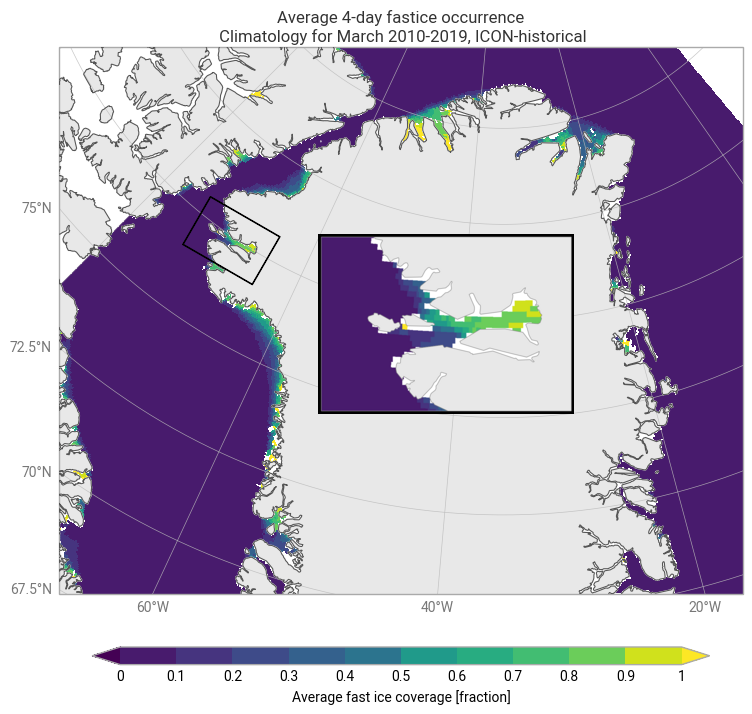
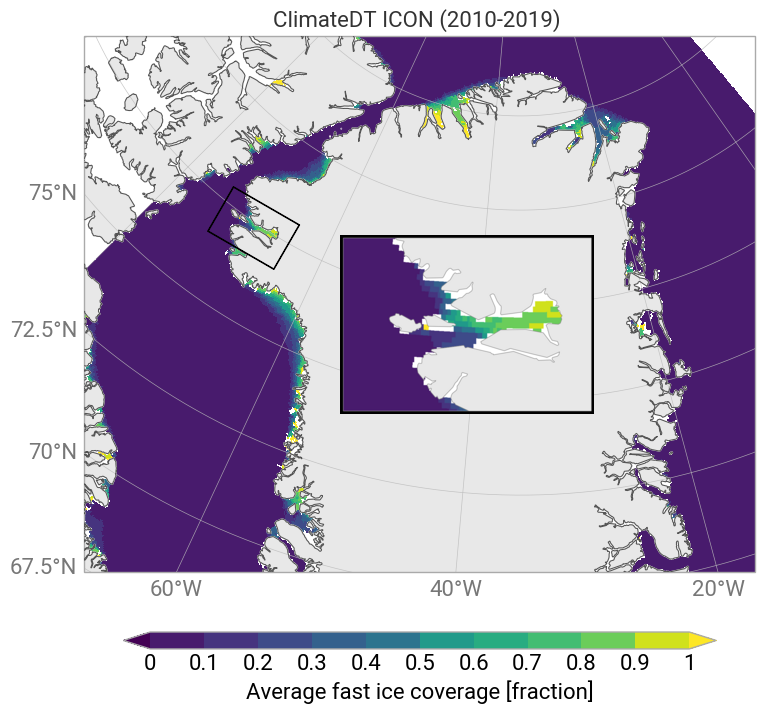
LFI plots: Bigger font, less title

Changed region(s): [[0.0, 0.0, 1.0, 0.986], [0.2753, 0.6162, 0.3059, 0.6779], [0.9176, 0.1541, 0.9481, 0.1849]]

diff --git a/usecases/landfastice/landfastice_climatology.py b/usecases/landfastice/landfastice_climatology.py
@@ -58,6 +58,7 @@ import earthkit.regrid
 import datetime
 import pandas as pd
 import numpy as np
+import matplotlib.pyplot as plt
 
 from utils.download_icedata_c import request_icedata_subarea
 from utils.fastice import avg_fasticecoverage
@@ -100,11 +101,14 @@ fasticeduration=4 # days; For how many days ice needs to be stationary to be con
 
 # Region to be processed (Greenland or Arctic or Inglefield)
 mapregion='Greenland'
-#mapregion='Arctic'
-#mapregion='Inglefield' # This will download/use data for Greenland
+# mapregion='Arctic'
+# mapregion='Inglefield' # This will download/use data for Greenland
 
 # Directory to store data files (temporarily):
 datastoragedir='/media/volume/data_storage_andrea/'
+
+# Font size for the plot
+plotfontsize=16
 
 ################
 ## End of user settings
@@ -212,7 +216,10 @@ for year in range(clima_fromyear,clima_toyear+1):
     # dataICExr=dataICE1month.to_xarray() # Needed for date in plot title
 
     # Calculate average fastice coverage for this month
+    
+    #test arctic avg_fasticecover_grb = avg_fasticecoverage(dataICE1month,speedthreshold=8e-2,fasticeduration=4)
     avg_fasticecover_grb = avg_fasticecoverage(dataICE1month,speedthreshold=5e-4,fasticeduration=4)
+    
     fastice_forechyear.append(avg_fasticecover_grb)
 
 ###
@@ -287,14 +294,20 @@ if plotavg:
     # chart.coastlines(resolution='medium',zorder=3)
     # chart.land(resolution='medium',zorder=2)
 
+    plt.rcParams.update({'font.size': plotfontsize})
+
     if not mapregion=="Inglefield":
         chart.gridlines(zorder=4)
         chart.legend(label="Average fast ice coverage [fraction]")
 
         # chart.title("Average "+str(fasticeduration)+"-day fastice occurrence\n between "+ date_start.strftime("%Y-%m-%d") +" and " + date_end.strftime("%Y-%m-%d")  +", "+climateDTmodel)
-        chart.title("Average "+str(fasticeduration)+"-day fastice occurrence\n " +
-            "Climatology for " + date_start.strftime("%B") +" "+str(clima_fromyear)+"-"+str(clima_toyear)+", "
-            +climateDTmodel+"-"+simulationperiod)
+        # Long title
+        # chart.title("Average "+str(fasticeduration)+"-day fastice occurrence\n " +
+            # "Climatology for " + date_start.strftime("%B") +" "+str(clima_fromyear)+"-"+str(clima_toyear)+", "
+            # +climateDTmodel+"-"+simulationperiod, fontsize=plotfontsize)
+        # Short title
+        chart.title("ClimateDT "+climateDTmodel+" ("+str(clima_fromyear)+"-"+str(clima_toyear)+") ",
+                    fontsize=plotfontsize)
 
     if saveplot:
         import matplotlib.pyplot as plt

diff --git a/usecases/landfastice/plot_external_fasticedata.py b/usecases/landfastice/plot_external_fasticedata.py
@@ -7,6 +7,7 @@ import earthkit.plots
 import datetime
 from earthkit.plots.geo import domains
 import numpy as np
+import matplotlib.pyplot as plt
 
 ################
 ## User settings
@@ -38,6 +39,11 @@ if datasource=="icecharts":
     # Name of latitude/longitude coordinates
     varLON='lon'
     varLAT='lat'
+    # Title to be shown on the plot
+    ## long version
+    #plottitle="Average fastice occurrence\n " +"Climatology for " + monthname+" "+str(clima_fromyear)+"-"+str(clima_toyear)+" from "+datasource
+    # short version
+    plottitle="Ice charts ("+str(clima_fromyear)+"-"+str(clima_toyear)+")"
 elif datasource=="HYCOM-CICE":
     # Filename to plot
     fasticeduration="4"
@@ -47,9 +53,13 @@ elif datasource=="HYCOM-CICE":
     # Name of latitude/longitude coordinates
     varLON='ULON'
     varLAT='ULAT'
+    # Title to be shown on the plot
+    plottitle="Average fastice occurrence\n " +"Climatology for " + monthname+" "+str(clima_fromyear)+"-"+str(clima_toyear)+" from "+datasource
 
-# Title to be shown on the plot
-plottitle="Average fastice occurrence\n " +"Climatology for " + monthname+" "+str(clima_fromyear)+"-"+str(clima_toyear)+" from "+datasource
+
+
+# Font size for the plot
+plotfontsize=16
 
 ################
 ## End of user settings
@@ -117,11 +127,13 @@ for mapregion in ["Greenland", "Inglefield"]:
     chart.coastlines(resolution='high',zorder=3)
     chart.land(resolution='high',zorder=2)
 
+    plt.rcParams.update({'font.size': plotfontsize})
+
     if not mapregion=="Inglefield":
         chart.gridlines(zorder=4)
         chart.legend(label="Average fast ice coverage [fraction]")
         # chart.title("Average "+str(fasticeduration)+"-day fastice occurrence\n between "+ date_start.strftime("%Y-%m-%d") +" and " + date_end.strftime("%Y-%m-%d")  +", "+climateDTmodel)
-        chart.title(plottitle)
+        chart.title(plottitle, fontsize=plotfontsize)
 
 
     if saveplot:
